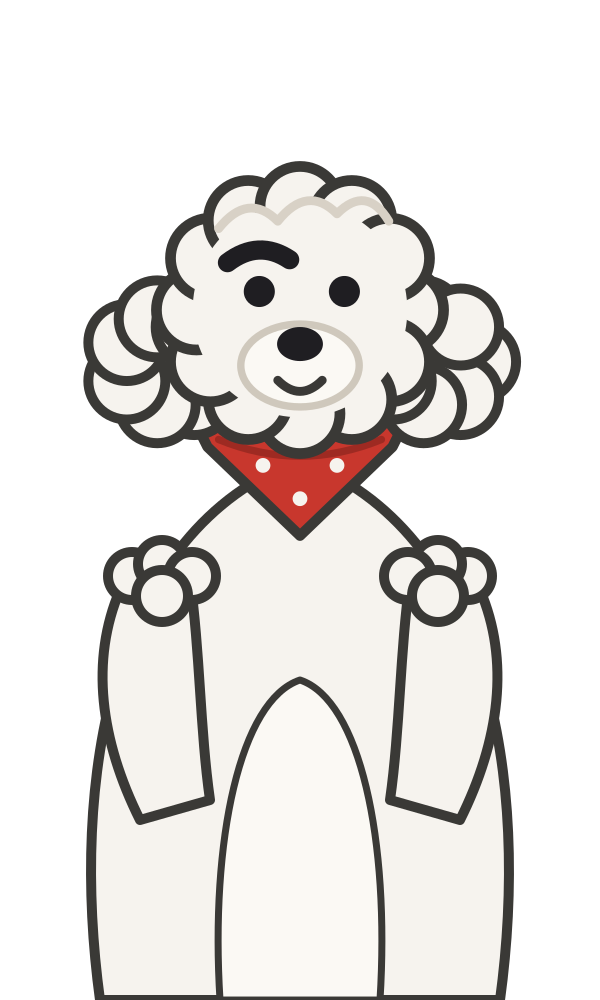
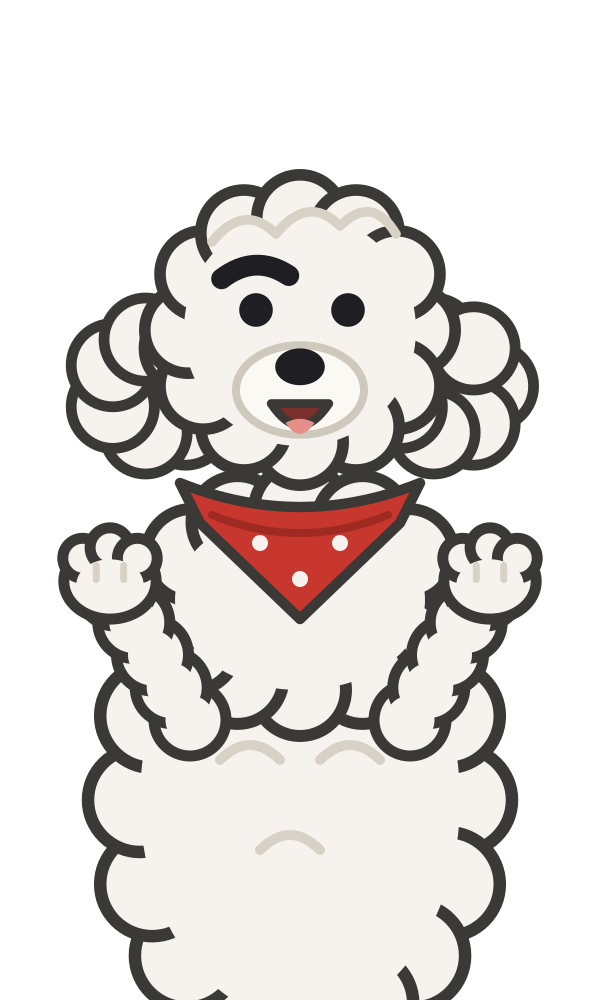
New Huckleberry drawing (work in progress: frames still rendering)
Claude-Session: https://claude.ai/code/session_01NnRfKQjmqBdBk6Z8TEmNLc

Changed region(s): [[0.09, 0.155, 0.93, 1.0], [0.42, 0.806, 0.54, 0.868]]

diff --git a/assets/pets.js b/assets/pets.js
@@ -4,11 +4,11 @@
   function keys(p, ks) { let k = 0; while (k < ks.length - 2 && ks[k + 1][0] <= p) k++; const [t0, a0] = ks[k], [t1, a1] = ks[k + 1]; return a0 + (a1 - a0) * ease((p - t0) / (t1 - t0)); }
   function blink(t, period, off) { const q = ((t + off) % period); return q < 0.07 ? 1 - q / 0.07 * 0.88 : q < 0.16 ? 0.12 + (q - 0.07) / 0.09 * 0.88 : 1; }
   const PETS = {
-    dog: { w: 60, h: 100, markup: "<g class=\"pet-dog\" stroke-linejoin=\"round\" stroke-linecap=\"round\"> <g stroke=\"#3a3936\" stroke-width=\"1\"> <path d=\"M10 100 C7 78 11 53 30 46 C49 53 53 78 50 100 Z\" fill=\"#f6f3ee\"/> <path d=\"M22 100 C21 84 24 70 30 68 C36 70 39 84 38 100 Z\" fill=\"#fbf9f4\" stroke-width=\"0.7\"/> </g> <g stroke=\"#3a3936\" stroke-width=\"1\" fill=\"#f6f3ee\"> <path d=\"M14 82 C10 74 9 66 12 59 L19 58 C20 65 20 73 21 80 Z\"/> <path d=\"M46 82 C50 74 51 66 48 59 L41 58 C40 65 40 73 39 80 Z\"/> <circle cx=\"13.2\" cy=\"57.6\" r=\"2.4\"/><circle cx=\"16.2\" cy=\"56.4\" r=\"2.4\"/><circle cx=\"19.2\" cy=\"57.6\" r=\"2.4\"/><circle cx=\"16.2\" cy=\"59.6\" r=\"2.6\"/> <circle cx=\"46.8\" cy=\"57.6\" r=\"2.4\"/><circle cx=\"43.8\" cy=\"56.4\" r=\"2.4\"/><circle cx=\"40.8\" cy=\"57.6\" r=\"2.4\"/><circle cx=\"43.8\" cy=\"59.6\" r=\"2.6\"/> </g> <g transform=\"translate(30 31) scale(0.74) translate(-561 -731)\" stroke=\"#3a3936\" stroke-width=\"1.4\" stroke-linejoin=\"round\"> <path d=\"M546 744.5 Q561 750.5 576 744.5 L573.5 749.5 L561 761.5 L548.5 749.5 Z\" fill=\"#c8372d\"/> <path d=\"M550 748.5 Q561 753 572 748.5\" fill=\"none\" stroke=\"#9e2a22\" stroke-width=\"1\"/> <circle cx=\"556\" cy=\"752\" r=\"1\" fill=\"#f6f3ee\" stroke=\"none\"/><circle cx=\"566\" cy=\"752\" r=\"1\" fill=\"#f6f3ee\" stroke=\"none\"/><circle cx=\"561\" cy=\"756.5\" r=\"1\" fill=\"#f6f3ee\" stroke=\"none\"/> </g> <g class=\"dog-head\"> <g transform=\"translate(30 31) scale(0.74) translate(-561 -731)\"> <g stroke=\"#3a3936\" stroke-width=\"1.35\"><circle cx=\"549.0\" cy=\"738.0\" r=\"5.2\" fill=\"#f6f3ee\"/><circle cx=\"546.7\" cy=\"742.7\" r=\"5.2\" fill=\"#f6f3ee\"/><circle cx=\"541.7\" cy=\"743.8\" r=\"5.2\" fill=\"#f6f3ee\"/><circle cx=\"537.6\" cy=\"740.6\" r=\"5.2\" fill=\"#f6f3ee\"/><circle cx=\"537.6\" cy=\"735.4\" r=\"5.2\" fill=\"#f6f3ee\"/><circle cx=\"541.7\" cy=\"732.2\" r=\"5.2\" fill=\"#f6f3ee\"/><circle cx=\"546.7\" cy=\"733.3\" r=\"5.2\" fill=\"#f6f3ee\"/><circle cx=\"585.0\" cy=\"738.0\" r=\"5.2\" fill=\"#f6f3ee\"/><circle cx=\"582.7\" cy=\"742.7\" r=\"5.2\" fill=\"#f6f3ee\"/><circle cx=\"577.7\" cy=\"743.8\" r=\"5.2\" fill=\"#f6f3ee\"/><circle cx=\"573.6\" cy=\"740.6\" r=\"5.2\" fill=\"#f6f3ee\"/><circle cx=\"573.6\" cy=\"735.4\" r=\"5.2\" fill=\"#f6f3ee\"/><circle cx=\"577.7\" cy=\"732.2\" r=\"5.2\" fill=\"#f6f3ee\"/><circle cx=\"582.7\" cy=\"733.3\" r=\"5.2\" fill=\"#f6f3ee\"/></g> <g stroke=\"#3a3936\" stroke-width=\"1.45\"><circle cx=\"575.0\" cy=\"731.0\" r=\"5.4\" fill=\"#f6f3ee\"/><circle cx=\"573.1\" cy=\"738.0\" r=\"5.4\" fill=\"#f6f3ee\"/><circle cx=\"568.0\" cy=\"743.1\" r=\"5.4\" fill=\"#f6f3ee\"/><circle cx=\"561.0\" cy=\"745.0\" r=\"5.4\" fill=\"#f6f3ee\"/><circle cx=\"554.0\" cy=\"743.1\" r=\"5.4\" fill=\"#f6f3ee\"/><circle cx=\"548.9\" cy=\"738.0\" r=\"5.4\" fill=\"#f6f3ee\"/><circle cx=\"547.0\" cy=\"731.0\" r=\"5.4\" fill=\"#f6f3ee\"/><circle cx=\"548.9\" cy=\"724.0\" r=\"5.4\" fill=\"#f6f3ee\"/><circle cx=\"554.0\" cy=\"718.9\" r=\"5.4\" fill=\"#f6f3ee\"/><circle cx=\"561.0\" cy=\"717.0\" r=\"5.4\" fill=\"#f6f3ee\"/><circle cx=\"568.0\" cy=\"718.9\" r=\"5.4\" fill=\"#f6f3ee\"/><circle cx=\"573.1\" cy=\"724.0\" r=\"5.4\" fill=\"#f6f3ee\"/></g> <circle cx=\"561\" cy=\"731\" r=\"14.5\" fill=\"#f6f3ee\"/> <path d=\"M551.2 724.6 Q555.4 721.4 559.6 724.2\" fill=\"none\" stroke=\"#1f1e22\" stroke-width=\"2.6\"/> <path d=\"M550 720 q4 -5 8 -1 q4 -5 8 -1 q4 -4 7 1\" fill=\"none\" stroke=\"#d8d1c6\" stroke-width=\"1.2\"/> <g class=\"dog-eyes\"><circle cx=\"555.5\" cy=\"728.5\" r=\"2.1\" fill=\"#1f1e22\"/><circle cx=\"567\" cy=\"728.5\" r=\"2.1\" fill=\"#1f1e22\"/></g> <ellipse cx=\"561\" cy=\"738.5\" rx=\"8\" ry=\"5.6\" fill=\"#fbf9f4\" stroke=\"#cfc8bc\" stroke-width=\"1\"/> <ellipse cx=\"561\" cy=\"735.6\" rx=\"3.1\" ry=\"2.3\" fill=\"#1f1e22\"/> <path d=\"M558 740.5 Q561 743.5 564 740.5\" fill=\"none\" stroke=\"#3a3936\" stroke-width=\"1.2\"/> </g> </g> </g>",
+    dog: { w: 60, h: 100, markup: "<g class=\"pet-dog\" stroke-linejoin=\"round\" stroke-linecap=\"round\"> <g stroke=\"#3a3936\" stroke-width=\"1.25\"><circle cx=\"46.00\" cy=\"80.00\" r=\"5.2\" fill=\"#f6f3ee\"/><circle cx=\"44.78\" cy=\"88.42\" r=\"5.2\" fill=\"#f6f3ee\"/><circle cx=\"41.31\" cy=\"95.56\" r=\"5.2\" fill=\"#f6f3ee\"/><circle cx=\"36.12\" cy=\"100.33\" r=\"5.2\" fill=\"#f6f3ee\"/><circle cx=\"30.00\" cy=\"102.00\" r=\"5.2\" fill=\"#f6f3ee\"/><circle cx=\"23.88\" cy=\"100.33\" r=\"5.2\" fill=\"#f6f3ee\"/><circle cx=\"18.69\" cy=\"95.56\" r=\"5.2\" fill=\"#f6f3ee\"/><circle cx=\"15.22\" cy=\"88.42\" r=\"5.2\" fill=\"#f6f3ee\"/><circle cx=\"14.00\" cy=\"80.00\" r=\"5.2\" fill=\"#f6f3ee\"/><circle cx=\"15.22\" cy=\"71.58\" r=\"5.2\" fill=\"#f6f3ee\"/><circle cx=\"18.69\" cy=\"64.44\" r=\"5.2\" fill=\"#f6f3ee\"/><circle cx=\"23.88\" cy=\"59.67\" r=\"5.2\" fill=\"#f6f3ee\"/><circle cx=\"30.00\" cy=\"58.00\" r=\"5.2\" fill=\"#f6f3ee\"/><circle cx=\"36.12\" cy=\"59.67\" r=\"5.2\" fill=\"#f6f3ee\"/><circle cx=\"41.31\" cy=\"64.44\" r=\"5.2\" fill=\"#f6f3ee\"/><circle cx=\"44.78\" cy=\"71.58\" r=\"5.2\" fill=\"#f6f3ee\"/></g> <ellipse cx=\"30\" cy=\"80\" rx=\"16\" ry=\"22\" fill=\"#f6f3ee\"/> <g stroke=\"#3a3936\" stroke-width=\"1.2\"><circle cx=\"42.50\" cy=\"60.00\" r=\"4.6\" fill=\"#f6f3ee\"/><circle cx=\"40.83\" cy=\"64.50\" r=\"4.6\" fill=\"#f6f3ee\"/><circle cx=\"36.25\" cy=\"67.79\" r=\"4.6\" fill=\"#f6f3ee\"/><circle cx=\"30.00\" cy=\"69.00\" r=\"4.6\" fill=\"#f6f3ee\"/><circle cx=\"23.75\" cy=\"67.79\" r=\"4.6\" fill=\"#f6f3ee\"/><circle cx=\"19.17\" cy=\"64.50\" r=\"4.6\" fill=\"#f6f3ee\"/><circle cx=\"17.50\" cy=\"60.00\" r=\"4.6\" fill=\"#f6f3ee\"/><circle cx=\"19.17\" cy=\"55.50\" r=\"4.6\" fill=\"#f6f3ee\"/><circle cx=\"23.75\" cy=\"52.21\" r=\"4.6\" fill=\"#f6f3ee\"/><circle cx=\"30.00\" cy=\"51.00\" r=\"4.6\" fill=\"#f6f3ee\"/><circle cx=\"36.25\" cy=\"52.21\" r=\"4.6\" fill=\"#f6f3ee\"/><circle cx=\"40.83\" cy=\"55.50\" r=\"4.6\" fill=\"#f6f3ee\"/></g> <ellipse cx=\"30\" cy=\"60\" rx=\"12.5\" ry=\"9\" fill=\"#f6f3ee\"/> <path d=\"M22 76 q3 -3 6 0 M32 76 q3 -3 6 0 M26 85 q3 -3 6 0\" fill=\"none\" stroke=\"#d8d1c6\" stroke-width=\"1\"/> <g stroke=\"#3a3936\" stroke-width=\"1.1\" fill=\"#f6f3ee\"><circle cx=\"19.00\" cy=\"72.00\" r=\"3.6\"/><circle cx=\"17.12\" cy=\"68.75\" r=\"3.6\"/><circle cx=\"15.25\" cy=\"65.50\" r=\"3.6\"/><circle cx=\"13.38\" cy=\"62.25\" r=\"3.6\"/><circle cx=\"11.50\" cy=\"59.00\" r=\"3.6\"/></g><g fill=\"#f6f3ee\"><circle cx=\"19.00\" cy=\"72.00\" r=\"2.45\"/><circle cx=\"17.12\" cy=\"68.75\" r=\"2.45\"/><circle cx=\"15.25\" cy=\"65.50\" r=\"2.45\"/><circle cx=\"13.38\" cy=\"62.25\" r=\"2.45\"/><circle cx=\"11.50\" cy=\"59.00\" r=\"2.45\"/></g> <g stroke=\"#3a3936\" stroke-width=\"1.1\" fill=\"#f6f3ee\"><circle cx=\"41.00\" cy=\"72.00\" r=\"3.6\"/><circle cx=\"42.88\" cy=\"68.75\" r=\"3.6\"/><circle cx=\"44.75\" cy=\"65.50\" r=\"3.6\"/><circle cx=\"46.62\" cy=\"62.25\" r=\"3.6\"/><circle cx=\"48.50\" cy=\"59.00\" r=\"3.6\"/></g><g fill=\"#f6f3ee\"><circle cx=\"41.00\" cy=\"72.00\" r=\"2.45\"/><circle cx=\"42.88\" cy=\"68.75\" r=\"2.45\"/><circle cx=\"44.75\" cy=\"65.50\" r=\"2.45\"/><circle cx=\"46.62\" cy=\"62.25\" r=\"2.45\"/><circle cx=\"48.50\" cy=\"59.00\" r=\"2.45\"/></g> <g stroke=\"#3a3936\" stroke-width=\"1.1\" fill=\"#f6f3ee\"><ellipse cx=\"11\" cy=\"58.13\" rx=\"4.62\" ry=\"3.78\"/><circle cx=\"8.27\" cy=\"55.82\" r=\"1.99\"/><circle cx=\"11.00\" cy=\"54.77\" r=\"1.99\"/><circle cx=\"13.73\" cy=\"55.82\" r=\"1.99\"/><ellipse cx=\"11\" cy=\"58.45\" rx=\"3.36\" ry=\"2.52\" stroke=\"none\"/></g><path d=\"M9.63 56.55 v1.4 M12.37 56.55 v1.4\" stroke=\"#d8d1c6\" stroke-width=\"0.7\" fill=\"none\"/> <g stroke=\"#3a3936\" stroke-width=\"1.1\" fill=\"#f6f3ee\"><ellipse cx=\"49\" cy=\"58.13\" rx=\"4.62\" ry=\"3.78\"/><circle cx=\"46.27\" cy=\"55.82\" r=\"1.99\"/><circle cx=\"49.00\" cy=\"54.77\" r=\"1.99\"/><circle cx=\"51.73\" cy=\"55.82\" r=\"1.99\"/><ellipse cx=\"49\" cy=\"58.45\" rx=\"3.36\" ry=\"2.52\" stroke=\"none\"/></g><path d=\"M47.63 56.55 v1.4 M50.37 56.55 v1.4\" stroke=\"#d8d1c6\" stroke-width=\"0.7\" fill=\"none\"/> <g transform=\"translate(30 37.5) scale(0.8) translate(-561 -731)\" stroke=\"#3a3936\" stroke-width=\"1.3\" stroke-linejoin=\"round\"> <path d=\"M546 744.5 Q561 750.5 576 744.5 L573.5 749.5 L561 761.5 L548.5 749.5 Z\" fill=\"#c8372d\"/> <path d=\"M550 748.5 Q561 753 572 748.5\" fill=\"none\" stroke=\"#9e2a22\" stroke-width=\"1\"/> <circle cx=\"556\" cy=\"752\" r=\"1\" fill=\"#f6f3ee\" stroke=\"none\"/><circle cx=\"566\" cy=\"752\" r=\"1\" fill=\"#f6f3ee\" stroke=\"none\"/><circle cx=\"561\" cy=\"756.5\" r=\"1\" fill=\"#f6f3ee\" stroke=\"none\"/> </g> <g class=\"dog-head\"><g transform=\"translate(30 33) scale(0.8) translate(-561 -731)\"> <g stroke=\"#3a3936\" stroke-width=\"1.35\"><circle cx=\"549.0\" cy=\"738.0\" r=\"5.2\" fill=\"#f6f3ee\"/><circle cx=\"546.7\" cy=\"742.7\" r=\"5.2\" fill=\"#f6f3ee\"/><circle cx=\"541.7\" cy=\"743.8\" r=\"5.2\" fill=\"#f6f3ee\"/><circle cx=\"537.6\" cy=\"740.6\" r=\"5.2\" fill=\"#f6f3ee\"/><circle cx=\"537.6\" cy=\"735.4\" r=\"5.2\" fill=\"#f6f3ee\"/><circle cx=\"541.7\" cy=\"732.2\" r=\"5.2\" fill=\"#f6f3ee\"/><circle cx=\"546.7\" cy=\"733.3\" r=\"5.2\" fill=\"#f6f3ee\"/><circle cx=\"585.0\" cy=\"738.0\" r=\"5.2\" fill=\"#f6f3ee\"/><circle cx=\"582.7\" cy=\"742.7\" r=\"5.2\" fill=\"#f6f3ee\"/><circle cx=\"577.7\" cy=\"743.8\" r=\"5.2\" fill=\"#f6f3ee\"/><circle cx=\"573.6\" cy=\"740.6\" r=\"5.2\" fill=\"#f6f3ee\"/><circle cx=\"573.6\" cy=\"735.4\" r=\"5.2\" fill=\"#f6f3ee\"/><circle cx=\"577.7\" cy=\"732.2\" r=\"5.2\" fill=\"#f6f3ee\"/><circle cx=\"582.7\" cy=\"733.3\" r=\"5.2\" fill=\"#f6f3ee\"/></g> <g stroke=\"#3a3936\" stroke-width=\"1.45\"><circle cx=\"575.0\" cy=\"731.0\" r=\"5.4\" fill=\"#f6f3ee\"/><circle cx=\"573.1\" cy=\"738.0\" r=\"5.4\" fill=\"#f6f3ee\"/><circle cx=\"568.0\" cy=\"743.1\" r=\"5.4\" fill=\"#f6f3ee\"/><circle cx=\"561.0\" cy=\"745.0\" r=\"5.4\" fill=\"#f6f3ee\"/><circle cx=\"554.0\" cy=\"743.1\" r=\"5.4\" fill=\"#f6f3ee\"/><circle cx=\"548.9\" cy=\"738.0\" r=\"5.4\" fill=\"#f6f3ee\"/><circle cx=\"547.0\" cy=\"731.0\" r=\"5.4\" fill=\"#f6f3ee\"/><circle cx=\"548.9\" cy=\"724.0\" r=\"5.4\" fill=\"#f6f3ee\"/><circle cx=\"554.0\" cy=\"718.9\" r=\"5.4\" fill=\"#f6f3ee\"/><circle cx=\"561.0\" cy=\"717.0\" r=\"5.4\" fill=\"#f6f3ee\"/><circle cx=\"568.0\" cy=\"718.9\" r=\"5.4\" fill=\"#f6f3ee\"/><circle cx=\"573.1\" cy=\"724.0\" r=\"5.4\" fill=\"#f6f3ee\"/></g> <circle cx=\"561\" cy=\"731\" r=\"14.5\" fill=\"#f6f3ee\"/> <path d=\"M551.2 724.6 Q555.4 721.4 559.6 724.2\" fill=\"none\" stroke=\"#1f1e22\" stroke-width=\"2.6\"/> <path d=\"M550 720 q4 -5 8 -1 q4 -5 8 -1 q4 -4 7 1\" fill=\"none\" stroke=\"#d8d1c6\" stroke-width=\"1.2\"/> <g class=\"dog-eyes\"><circle cx=\"555.5\" cy=\"728.5\" r=\"2.1\" fill=\"#1f1e22\"/><circle cx=\"567\" cy=\"728.5\" r=\"2.1\" fill=\"#1f1e22\"/></g> <ellipse cx=\"561\" cy=\"738.5\" rx=\"8\" ry=\"5.6\" fill=\"#fbf9f4\" stroke=\"#cfc8bc\" stroke-width=\"1\"/> <ellipse cx=\"561\" cy=\"735.6\" rx=\"3.1\" ry=\"2.3\" fill=\"#1f1e22\"/> <path d=\"M557.4 740.2 Q561 745.6 564.6 740.2 Z\" fill=\"#7a2f2a\" stroke=\"#3a3936\" stroke-width=\"1.1\"/><path d=\"M559.2 742.6 Q561 745.4 562.8 742.6 Q561 741.6 559.2 742.6 Z\" fill=\"#e58f8a\" stroke=\"none\"/> </g></g> </g>",
       state(t) {
         const tilt = keys((t % 4.2) / 4.2, [[0, 0], [0.62, 0], [0.70, -9], [0.86, -9], [0.94, 0], [1, 0]]);
         const s = blink(t, 2.8, 1.1);
-        return { 'dog-head': 'rotate(' + tilt.toFixed(2) + ' 30 40)', 'dog-eyes': 'translate(0 728.5) scale(1 ' + s.toFixed(3) + ') translate(0 -728.5)' };
+        return { 'dog-head': 'rotate(' + tilt.toFixed(2) + ' 30 46)', 'dog-eyes': 'translate(0 728.5) scale(1 ' + s.toFixed(3) + ') translate(0 -728.5)' };
       } },
     cat: { w: 70, h: 90, markup: "<g class=\"pet-cat\" stroke=\"#3a3936\" stroke-width=\"1.1\" stroke-linejoin=\"round\" stroke-linecap=\"round\"> <g class=\"cat-tail\"><path d=\"M4 88 C14 86 18 76 13 68 C11 64 15 61 18 64\" fill=\"none\" stroke=\"#3a3936\" stroke-width=\"5.2\"/><path d=\"M4 88 C14 86 18 76 13 68 C11 64 15 61 18 64\" fill=\"none\" stroke=\"#a3a2a6\" stroke-width=\"3.2\"/></g> <path d=\"M-6 89 C-6 74 2 64 12 63 C20 64 24 74 23 89 Z\" fill=\"#a3a2a6\"/> <path d=\"M6 70 q4 -1 7 1 M5 76 q5 -1 9 1\" fill=\"none\" stroke=\"#7d7c81\" stroke-width=\"1\"/> <ellipse cx=\"20\" cy=\"87.2\" rx=\"4.2\" ry=\"2.4\" fill=\"#b4b3b7\"/> <g class=\"cat-head\"> <path d=\"M1.5 47 L3 35.5 L10.5 43 Z\" fill=\"#a3a2a6\"/><path d=\"M3.6 44.5 L4.2 38.6 L8 42.6 Z\" fill=\"#e7c9c3\" stroke=\"none\"/> <path d=\"M16 43 L24 36 L24.5 47.5 Z\" fill=\"#a3a2a6\"/><path d=\"M18.4 43.2 L22.6 39.4 L22.8 45.2 Z\" fill=\"#e7c9c3\" stroke=\"none\"/> <ellipse cx=\"12.5\" cy=\"52\" rx=\"12.5\" ry=\"10.4\" fill=\"#a3a2a6\"/> <path d=\"M9 43 l1 3.5 M12.5 42 l0 3.8 M16 43 l-1 3.5\" stroke=\"#7d7c81\" stroke-width=\"1\"/> <g class=\"cat-eyes\"><ellipse cx=\"8\" cy=\"51\" rx=\"1.7\" ry=\"2.2\" fill=\"#1f1e22\" stroke=\"none\"/><ellipse cx=\"17\" cy=\"51\" rx=\"1.7\" ry=\"2.2\" fill=\"#1f1e22\" stroke=\"none\"/></g> <path d=\"M11.3 55 L13.7 55 L12.5 56.6 Z\" fill=\"#d9a0a0\" stroke=\"#3a3936\" stroke-width=\"0.6\"/> <path d=\"M10.5 58 Q12.5 59.4 12.5 57 Q12.5 59.4 14.5 58\" fill=\"none\" stroke-width=\"0.8\"/> <path d=\"M3 55 l-5 -1 M3 57 l-5 1 M22 55 l5 -1 M22 57 l5 1\" stroke=\"#3a3936\" stroke-width=\"0.5\"/> </g> </g>",
       state(t) {

diff --git a/tools/petsjs.py b/tools/petsjs.py
@@ -19,7 +19,7 @@ js = r"""/* 325 Overcreek - Huckleberry and the cat: sprite markup and idle anim
       state(t) {
         const tilt = keys((t % 4.2) / 4.2, [[0, 0], [0.62, 0], [0.70, -9], [0.86, -9], [0.94, 0], [1, 0]]);
         const s = blink(t, 2.8, 1.1);
-        return { 'dog-head': 'rotate(' + tilt.toFixed(2) + ' 30 40)', 'dog-eyes': 'translate(0 728.5) scale(1 ' + s.toFixed(3) + ') translate(0 -728.5)' };
+        return { 'dog-head': 'rotate(' + tilt.toFixed(2) + ' 30 46)', 'dog-eyes': 'translate(0 728.5) scale(1 ' + s.toFixed(3) + ') translate(0 -728.5)' };
       } },
     cat: { w: 70, h: 90, markup: CATM,
       state(t) {
